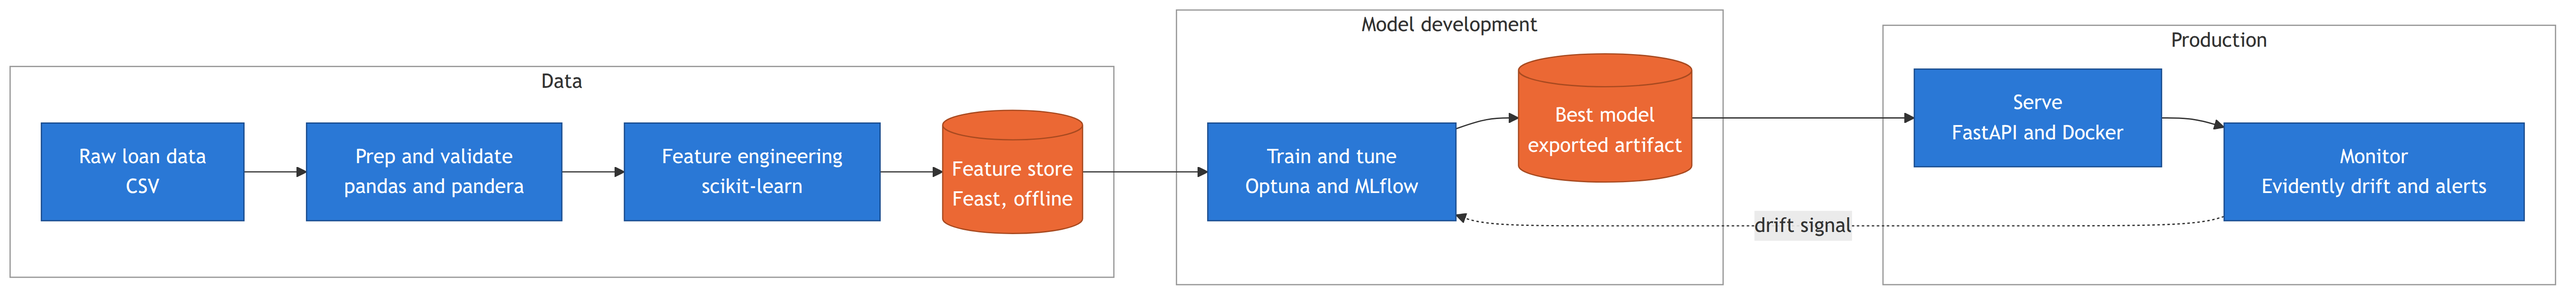
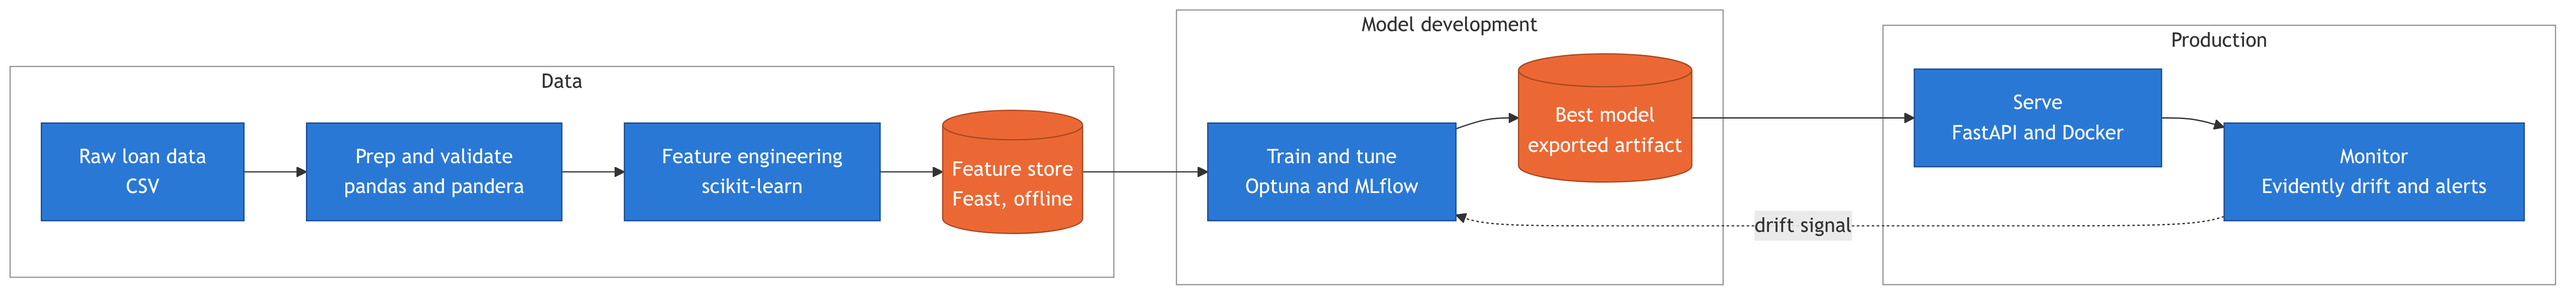
docs: transparent pipeline diagram, results as a captioned grid
Diagram background is now transparent so it reads on GitHub's dark
theme too (subgraph panels keep an explicit white fill so the flow
stays legible against either background). Results plots are laid out
as a two-column table with a caption under each image instead of a
stacked list. Also carries the manual tweaks made in the editor:
tech-stack table, run-instructions heading and intro line.

diff --git a/README.md b/README.md
@@ -5,10 +5,18 @@ batch API → drift monitoring, for a Colombian bank's loan book.
 
 ## Tech stack
 
-pandas + pandera (prep & validation) · scikit-learn (`FeatureEngineer`, the champion
-pipeline) · Feast (offline feature store) · Optuna (hyperparameter search) · XGBoost /
-LightGBM (candidates) · MLflow (experiment tracking) · FastAPI + Docker (batch serving) ·
-Evidently AI (drift) · Hydra + pydantic (config, everywhere) · uv (dependency management)
+| Category | Tool / Library |
+| --- | --- |
+| **Dependency Management** | `uv` |
+| **Configuration** | `Hydra` + `pydantic` |
+| **Data Prep & Validation** | `pandas` + `pandera` |
+| **Feature Store** | `Feast` |
+| **Feature Engineering** | `scikit-learn` |
+| **Model Training** | `XGBoost` / `LightGBM` |
+| **Hyperparameter Search** | `Optuna` |
+| **Experiment Tracking** | `MLflow` |
+| **Batch Serving** | `FastAPI` + `Docker` |
+| **Model Monitoring** | `Evidently AI` |
 
 ## Pipeline
 
@@ -19,7 +27,7 @@ Full detail per stage in `docs/`: [architecture](docs/architecture.md) ·
 [model training](docs/model-training.md) · [serving](docs/serving.md) ·
 [monitoring](docs/monitoring.md).
 
-## Run it end to end
+## How to run it 
 
 ```bash
 make install
@@ -30,6 +38,7 @@ docker compose up --build          # batch API at :8000, monitoring endpoint inc
 make monitor                       # offline drift + model-quality report
 ```
 
+And this makes a request to the FastAPI serving endpoint:
 ```bash
 curl -X POST localhost:8000/predict/batch -H 'Content-Type: application/json' -d '{
   "records": [{"application_id":"APP-1","tipo_credito":"9","capital_prestado":4200000,
@@ -43,12 +52,38 @@ curl -X POST localhost:8000/predict/batch -H 'Content-Type: application/json' -d
 Out-of-time (train on the oldest 75% of vintages, test on the newest) comparison across all
 four candidates — the heuristic baseline, logistic regression, XGBoost and LightGBM:
 
-![PR-AUC and Gini per model, out of time](docs/plots/model_comparison_performance.png)
-![CV mean vs. out-of-time PR-AUC per tuned candidate](docs/plots/model_comparison_cv_vs_oot.png)
-![Confusion matrices at each model's own operating threshold](docs/plots/confusion_matrices.png)
-![ROC curves for all four models](docs/plots/roc_curves.png)
-![Precision-recall curves for all four models](docs/plots/pr_curves.png)
-![Normalized comparison across six metrics, parallel coordinates](docs/plots/parallel_coordinates.png)
+<table>
+<tr>
+<td align="center" width="50%">
+<img src="docs/plots/model_comparison_performance.png" width="100%"><br>
+<sub><b>PR-AUC and Gini per model, out of time</b></sub>
+</td>
+<td align="center" width="50%">
+<img src="docs/plots/model_comparison_cv_vs_oot.png" width="100%"><br>
+<sub><b>CV mean vs. out-of-time PR-AUC</b> — tuning picked a different model than selection did</sub>
+</td>
+</tr>
+<tr>
+<td align="center" width="50%">
+<img src="docs/plots/confusion_matrices.png" width="100%"><br>
+<sub><b>Confusion matrices</b>, each model at its own operating threshold</sub>
+</td>
+<td align="center" width="50%">
+<img src="docs/plots/roc_curves.png" width="100%"><br>
+<sub><b>ROC curves</b>, all four candidates</sub>
+</td>
+</tr>
+<tr>
+<td align="center" width="50%">
+<img src="docs/plots/pr_curves.png" width="100%"><br>
+<sub><b>Precision-recall curves</b> — the metric the selection is actually made on</sub>
+</td>
+<td align="center" width="50%">
+<img src="docs/plots/parallel_coordinates.png" width="100%"><br>
+<sub><b>Six metrics side by side</b>, normalized, parallel coordinates</sub>
+</td>
+</tr>
+</table>
 
 The best model until now is the Optuna-tuned logistic regression — 0.129 PR-AUC and 0.327
 Gini out of time, 2.2× the heuristic baseline on PR-AUC (the metric that matters at a 4.75%
